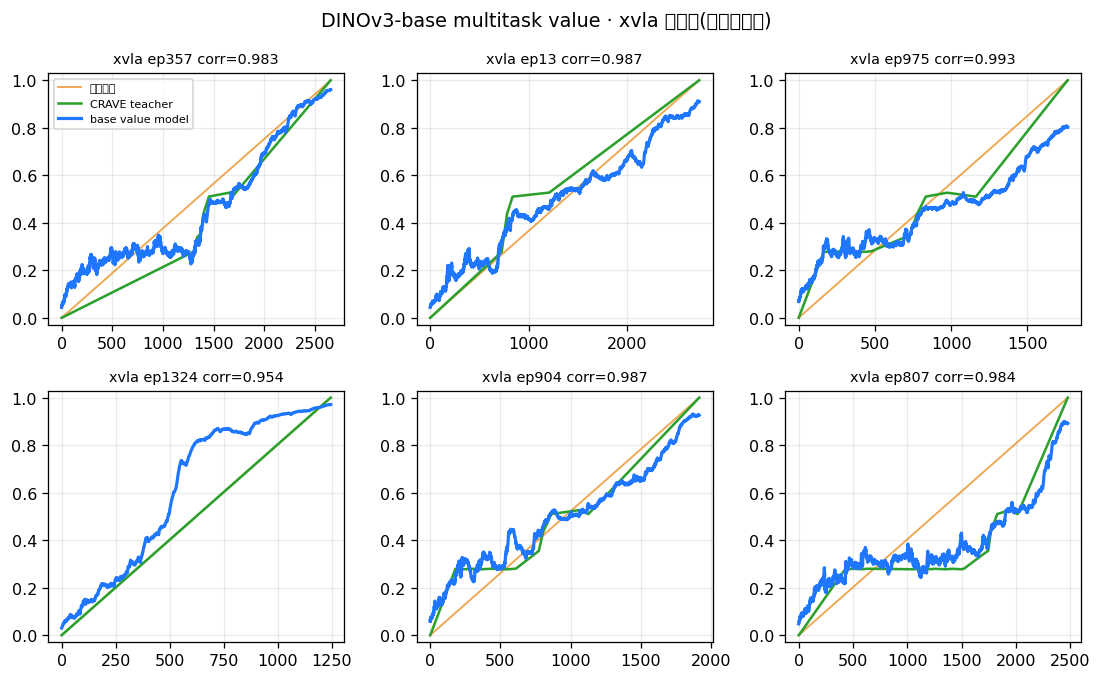
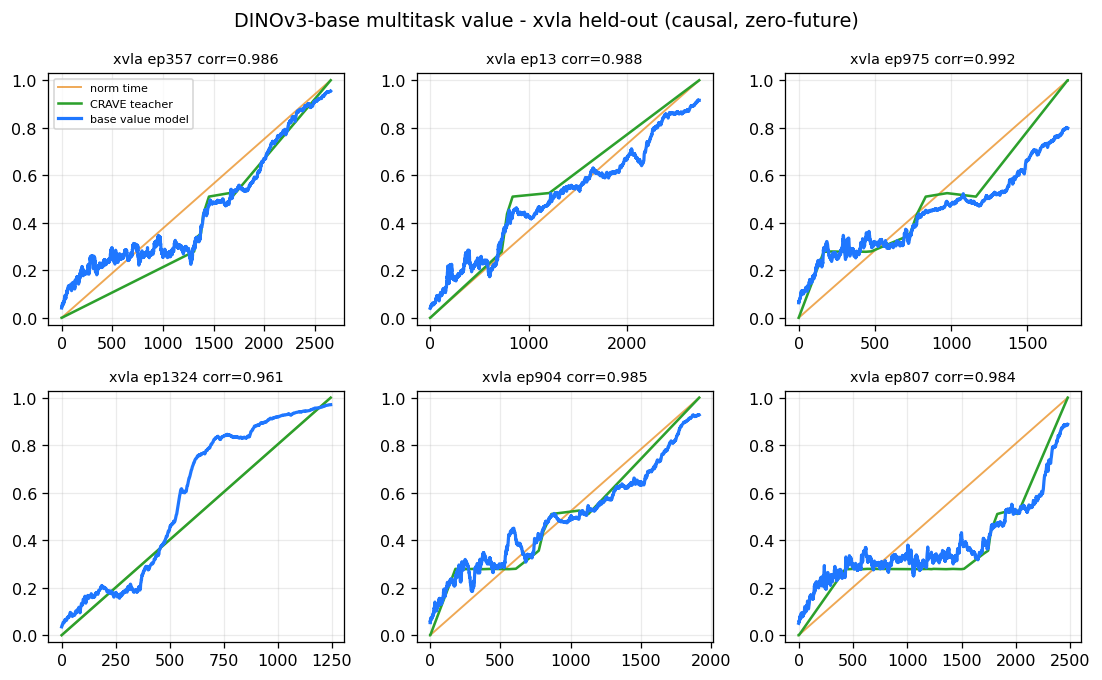
decoder: base pooled decoder(单帧自重建0.87达标, 簇心软→检索) + 图统一英文
- 训 DINOv3-base pooled decoder(coffee/xvla): 单帧自重建 re-encode cos 0.873(coffee)
  远超合成封顶0.47(刚性场景好重建); 簇心=平均态→臂糊团, milestone 可视化仍用检索
- 图统一英文(gf3 matplotlib 无中文字体→乱码): 重渲 base_coffee/xvla/aloha9(+warmup)
  + centroid_decode_coffee/xvla + decoder_selfrecon
- doc decoder_benchmark §6; 脚本 train_decoder_base/decode_milestone_centroids

diff --git a/lmvla/crave/experiments/decode_milestone_centroids.py b/lmvla/crave/experiments/decode_milestone_centroids.py
@@ -1,0 +1,68 @@
+import json, numpy as np, cv2, av, h5py, torch, torch.nn as nn
+from pathlib import Path
+from sklearn.mixture import BayesianGaussianMixture
+import matplotlib; matplotlib.use('Agg'); import matplotlib.pyplot as plt
+REPO=Path('/vePFS-North-E/vis_robot/workspace/deepdive_kai0'); DEV='cuda:0'; rng=np.random.RandomState(0); RES=128
+def l2(x): return x/(np.linalg.norm(x,axis=-1,keepdims=True)+1e-9)
+class Dec(nn.Module):
+    def __init__(s,d=768):
+        super().__init__(); s.fc=nn.Linear(d,512*4*4)
+        def blk(i,o): return nn.Sequential(nn.Upsample(scale_factor=2),nn.Conv2d(i,o,3,1,1),nn.GroupNorm(8,o),nn.SiLU())
+        s.up=nn.Sequential(blk(512,256),blk(256,128),blk(128,64),blk(64,32),blk(32,32)); s.out=nn.Conv2d(32,3,3,1,1)
+    def forward(s,x): return torch.sigmoid(s.out(s.up(s.fc(x).view(-1,512,4,4))))
+def milestones(feat,E,T,NC):
+    bg=BayesianGaussianMixture(n_components=40,covariance_type='diag',weight_concentration_prior=1e-2,max_iter=120,random_state=0).fit(feat[rng.choice(len(feat),min(40000,len(feat)),replace=False)]); labs=bg.predict(feat); ms=[]
+    for k in range(40):
+        m=labs==k
+        if m.sum()>=20 and len(set(E[m].tolist()))/NC>=0.5: ms.append((float(np.median(T[m])), l2(feat[m].mean(0)[None])[0]))
+    ms.sort()
+    return [ms[i] for i in np.linspace(0,len(ms)-1,min(8,len(ms))).astype(int)] if ms else []
+# ===== COFFEE =====
+z=np.load(REPO/'lmvla/crave/data/coffee_dinov3base/index.npz'); s=np.load(REPO/'lmvla/crave/data/coffee_dinov3base/shard_0.npz')
+E=z['E'];FR=z['FR']; feat=l2(s['feat'].astype(np.float32)); N=len(feat); eps=sorted(np.unique(E).tolist()); NC=len(eps)
+T=np.zeros(N,np.float32)
+for e in eps: m=np.where(E==e)[0]; o=m[np.argsort(FR[m])]; T[o]=np.linspace(0,1,len(o))
+imgs=np.zeros((N,RES,RES,3),np.uint8); cont=av.open(str(REPO/'temp/aloha_static_coffee/videos/observation.images.cam_high/chunk-000/file-000.mp4')); i=0
+for fr in cont.decode(video=0):
+    if i>=N: break
+    imgs[i]=cv2.resize(fr.to_ndarray(format='rgb24'),(RES,RES)); i+=1
+cont.close()
+net=Dec().to(DEV); net.load_state_dict(torch.load(REPO/'lmvla/crave/data/base_decoder_coffee.pt')); net.eval()
+ms=milestones(feat,E,T,NC); fig,ax=plt.subplots(2,len(ms),figsize=(2.3*len(ms),5))
+for j,(pv,cen) in enumerate(ms):
+    with torch.no_grad(): dec=net(torch.tensor(cen[None],device=DEV))[0].permute(1,2,0).cpu().numpy()
+    i=int(np.linalg.norm(feat-cen,axis=1).argmin())
+    ax[0,j].imshow(np.clip(dec,0,1)); ax[0,j].axis('off'); ax[0,j].set_title(('decoded centroid  ' if j==0 else '')+f'p={pv:.2f}',fontsize=9)
+    ax[1,j].imshow(imgs[i]); ax[1,j].axis('off'); ax[1,j].set_title('retrieved nearest real frame' if j==0 else '',fontsize=9)
+fig.suptitle('coffee milestone centroids: top=decoder synthesis / bottom=retrieval (nearest real frame), by progress p',fontsize=12)
+fig.tight_layout(); fig.savefig(REPO/'temp/centroid_decode_coffee.png',dpi=105,bbox_inches='tight'); print('SAVED coffee',flush=True)
+# self-recon coffee (EN)
+ev=np.arange(N)[int(N*.9):][:10]; from crave.encoders import load_encoder; enc=load_encoder('dinov3-base',device='cuda')
+fig,ax=plt.subplots(2,10,figsize=(22,4.6)); coss=[]
+for j,i in enumerate(ev):
+    with torch.no_grad(): rec=net(torch.tensor(feat[i][None],device=DEV))[0].permute(1,2,0).cpu().numpy()
+    ax[0,j].imshow(imgs[i].astype(np.float32)/255.); ax[0,j].axis('off'); ax[0,j].set_title('original' if j==0 else '',fontsize=9)
+    ax[1,j].imshow(np.clip(rec,0,1)); ax[1,j].axis('off'); ax[1,j].set_title('decoded' if j==0 else '',fontsize=9)
+    re=np.asarray(enc.encode_pooled(cv2.resize((np.clip(rec,0,1)*255).astype(np.uint8),(224,224))[None]))[0]; coss.append(float(l2(re[None])[0]@feat[i]))
+fig.suptitle(f'DINOv3-base pooled decoder self-reconstruction (coffee) · re-encode cos={np.mean(coss):.3f} (synthesis benchmark cap ~0.47)',fontsize=12)
+fig.tight_layout(); fig.savefig(REPO/'temp/decoder_selfrecon_base.png',dpi=105,bbox_inches='tight'); print('SAVED selfrecon',flush=True)
+del imgs
+# ===== XVLA =====
+XROOT=REPO/'xvla/data/xvla_soft_fold'; WORK=REPO/'temp/xvla_extract_base'; gidmap={}
+for g in range(8):
+    for bn,lep,gid in json.load(open(WORK/f'chunk_{g}.json')): gidmap[int(gid)]=(bn,int(lep))
+z=np.load(REPO/'lmvla/crave/data/xvla_dinov3base_full/index.npz'); s=np.load(REPO/'lmvla/crave/data/xvla_dinov3base_full/shard_0.npz')
+E=z['E'];FR=z['FR']; feat=l2(s['feat'].astype(np.float32)); N=len(feat); eps=sorted(np.unique(E).tolist()); NC=len(eps)
+T=np.zeros(N,np.float32)
+for e in eps: m=np.where(E==e)[0]; o=m[np.argsort(FR[m])]; T[o]=np.linspace(0,1,len(o))
+net=Dec().to(DEV); net.load_state_dict(torch.load(REPO/'lmvla/crave/data/base_decoder_xvla.pt')); net.eval()
+ms=milestones(feat,E,T,NC); fig,ax=plt.subplots(2,len(ms),figsize=(2.3*len(ms),5))
+for j,(pv,cen) in enumerate(ms):
+    with torch.no_grad(): dec=net(torch.tensor(cen[None],device=DEV))[0].permute(1,2,0).cpu().numpy()
+    i=int(np.linalg.norm(feat-cen,axis=1).argmin()); gid=int(E[i]); fr=int(FR[i]); bn,lep=gidmap[gid]
+    f=h5py.File(XROOT/bn/f'episode_{lep}.hdf5','r'); raw=f['observations/images/cam_high'][fr]; f.close()
+    rimg=cv2.resize(np.ascontiguousarray(cv2.imdecode(np.frombuffer(raw,np.uint8),cv2.IMREAD_COLOR)[:,:,::-1]),(RES,RES))
+    ax[0,j].imshow(np.clip(dec,0,1)); ax[0,j].axis('off'); ax[0,j].set_title(('decoded centroid  ' if j==0 else '')+f'p={pv:.2f}',fontsize=9)
+    ax[1,j].imshow(rimg); ax[1,j].axis('off'); ax[1,j].set_title('retrieved nearest real frame' if j==0 else '',fontsize=9)
+fig.suptitle('xvla milestone centroids: top=decoder synthesis / bottom=retrieval (nearest real frame), by progress p',fontsize=12)
+fig.tight_layout(); fig.savefig(REPO/'temp/centroid_decode_xvla.png',dpi=105,bbox_inches='tight'); print('SAVED xvla',flush=True)

diff --git a/lmvla/crave/experiments/train_decoder_base.py b/lmvla/crave/experiments/train_decoder_base.py
@@ -1,0 +1,47 @@
+import sys, numpy as np, av, cv2, time, torch, torch.nn as nn
+from pathlib import Path
+from crave.render import setup_mpl
+plt=setup_mpl()
+REPO=Path('/vePFS-North-E/vis_robot/workspace/deepdive_kai0'); DEV='cuda:0'; rng=np.random.RandomState(0); torch.manual_seed(0)
+RES=128; DS='coffee'; BANK='coffee_dinov3base'; VID=REPO/'temp/aloha_static_coffee/videos/observation.images.cam_high/chunk-000/file-000.mp4'
+def l2(x): return x/(np.linalg.norm(x,axis=-1,keepdims=True)+1e-9)
+# 特征(pooled 768) + 顺序解码视频帧配对
+z=np.load(REPO/f'lmvla/crave/data/{BANK}/index.npz'); s=np.load(REPO/f'lmvla/crave/data/{BANK}/shard_0.npz')
+feat=s['feat'].astype(np.float32); N=len(feat); print(f'{DS} feat {feat.shape}',flush=True)
+t0=time.time(); imgs=np.zeros((N,RES,RES,3),np.uint8); cont=av.open(str(VID)); i=0
+for fr in cont.decode(video=0):
+    if i>=N: break
+    imgs[i]=cv2.resize(fr.to_ndarray(format='rgb24'),(RES,RES)); i+=1
+cont.close(); print(f'decoded {i} frames ({time.time()-t0:.0f}s)',flush=True)
+feat=l2(feat); idx=np.arange(N); rng.shuffle(idx); tr=idx[:int(N*.9)]; ev=idx[int(N*.9):]
+class Dec(nn.Module):
+    def __init__(s,d=768):
+        super().__init__(); s.fc=nn.Linear(d,512*4*4)
+        def blk(i,o): return nn.Sequential(nn.Upsample(scale_factor=2),nn.Conv2d(i,o,3,1,1),nn.GroupNorm(8,o),nn.SiLU())
+        s.up=nn.Sequential(blk(512,256),blk(256,128),blk(128,64),blk(64,32),blk(32,32)); s.out=nn.Conv2d(32,3,3,1,1)
+    def forward(s,x): h=s.fc(x).view(-1,512,4,4); return torch.sigmoid(s.out(s.up(h)))
+net=Dec().to(DEV); opt=torch.optim.AdamW(net.parameters(),2e-4,weight_decay=1e-5)
+print(f'decoder 参数 {sum(p.numel() for p in net.parameters())/1e6:.1f}M',flush=True)
+Ft=torch.tensor(feat[tr],device=DEV); It=torch.tensor(imgs[tr].astype(np.float32)/255.,device=DEV).permute(0,3,1,2)
+for ep in range(40):
+    perm=torch.randperm(len(tr),device=DEV); tl=0
+    for k in range(0,len(tr),128):
+        b=perm[k:k+128]; pr=net(Ft[b]); loss=(pr-It[b]).abs().mean(); opt.zero_grad(); loss.backward(); opt.step(); tl+=loss.item()
+    if (ep+1)%10==0: print(f'ep{ep+1} L1={tl/(len(tr)//128):.4f}',flush=True)
+# 自重建 + 再编码cos(需encoder)
+net.eval()
+from crave.encoders import load_encoder; enc=load_encoder('dinov3-base',device='cuda')
+sel=ev[:10]; fig,ax=plt.subplots(2,10,figsize=(22,4.6))
+coss=[]; l1s=[]
+for j,i in enumerate(sel):
+    with torch.no_grad(): rec=net(torch.tensor(feat[i][None],device=DEV))[0].permute(1,2,0).cpu().numpy()
+    orig=imgs[i].astype(np.float32)/255.
+    ax[0,j].imshow(orig); ax[0,j].axis('off'); ax[0,j].set_title('原图' if j==0 else '',fontsize=9)
+    ax[1,j].imshow(np.clip(rec,0,1)); ax[1,j].axis('off'); ax[1,j].set_title('解码' if j==0 else '',fontsize=9)
+    l1s.append(np.abs(orig-rec).mean())
+    re=np.asarray(enc.encode_pooled(cv2.resize((np.clip(rec,0,1)*255).astype(np.uint8),(224,224))[None]))[0]
+    coss.append(float(l2(re[None])[0]@feat[i]))
+fig.suptitle(f'DINOv3-base pooled decoder 自重建 · coffee · 再编码cos={np.mean(coss):.3f} L1={np.mean(l1s):.3f}(基准: 合成封顶cos~0.47)',fontsize=12)
+fig.tight_layout(); fig.savefig(REPO/'temp/decoder_selfrecon_base.png',dpi=105,bbox_inches='tight')
+torch.save(net.state_dict(),REPO/'lmvla/crave/data/base_decoder_coffee.pt')
+print(f'SAVED selfrecon · cos={np.mean(coss):.3f} L1={np.mean(l1s):.3f}',flush=True)

diff --git a/lmvla/crave/experiments/train_multitask_12task.py b/lmvla/crave/experiments/train_multitask_12task.py
@@ -83,29 +83,29 @@ def pred(f, warm=20):
     fw=np.concatenate([f[:1].repeat(warm,0),f])
     return net(torch.tensor(fw[None],device=DEV),torch.tensor([len(fw)]))[0].cpu().numpy()[warm:]
 # per-task corr 全表
-print("=== 12任务 per-dataset 留出 corr ===",flush=True)
+print("=== 12-task per-dataset held-out corr ===",flush=True)
 allcorr={}
 for n in DATA:
-    c=[cc(pred(f),v) for f,v,t,tg,e in EV[n]]; allcorr[n]=np.nanmean(c); print(f"  {n}: {allcorr[n]:.3f} (M按ep)",flush=True)
-print(f"  >>> 12任务 mean={np.mean(list(allcorr.values())):.3f}",flush=True)
+    c=[cc(pred(f),v) for f,v,t,tg,e in EV[n]]; allcorr[n]=np.nanmean(c); print(f"  {n}: {allcorr[n]:.3f} ",flush=True)
+print(f"  >>> 12-task mean={np.mean(list(allcorr.values())):.3f}",flush=True)
 # 渲 aloha 9 任务(coffee+8) 各1留出ep
 alods=['coffee','cups_open','candy','screw_driver','vinh_cup','ziploc_slide','coffee_new','pro_pencil','vinh_cup_left']
 fig,axes=plt.subplots(3,3,figsize=(14,9)); axes=axes.flatten()
 for ax,dn in zip(axes,alods):
     f,v,t,tg,e=EV[dn][0]; p=pred(f)
-    ax.plot(t,color='#e8830c',lw=1.1,alpha=.6,label='时间'); ax.plot(v,color='#2ca02c',lw=1.5,label='teacher'); ax.plot(p,color='#1f77ff',lw=1.9,label='value model')
+    ax.plot(t,color='#e8830c',lw=1.1,alpha=.6,label='time'); ax.plot(v,color='#2ca02c',lw=1.5,label='teacher'); ax.plot(p,color='#1f77ff',lw=1.9,label='value model')
     ax.set_title(f'{dn} ep{e} corr={cc(p,v):.3f}',fontsize=9); ax.set_ylim(-.03,1.03); ax.grid(alpha=.25)
 axes[0].legend(fontsize=7)
-fig.suptitle('DINOv3-base 12任务 multitask value · 9个ALOHA任务留出集',fontsize=12); fig.tight_layout()
+fig.suptitle('DINOv3-base 12-task multitask value - 9 ALOHA tasks (held-out)',fontsize=12); fig.tight_layout()
 fig.savefig(REPO/"temp/base_aloha9.png",dpi=110,bbox_inches='tight'); print('SAVED base_aloha9.png',flush=True)
 for dsname,ncol in [("xvla",6),("coffee",8)]:
     ev=EV[dsname][:ncol]; nr=2; nc=(len(ev)+1)//2
     fig,axes=plt.subplots(nr,nc,figsize=(3.2*nc,6)); axes=np.atleast_1d(axes).flatten()
     for ax,(f,v,t,tg,e) in zip(axes,ev):
-        p=pred(f); ax.plot(t,color='#e8830c',lw=1.2,alpha=.7,label='归一时间'); ax.plot(v,color='#2ca02c',lw=1.6,label='CRAVE teacher'); ax.plot(p,color='#1f77ff',lw=2,label='base value model')
+        p=pred(f); ax.plot(t,color='#e8830c',lw=1.2,alpha=.7,label='norm time'); ax.plot(v,color='#2ca02c',lw=1.6,label='CRAVE teacher'); ax.plot(p,color='#1f77ff',lw=2,label='base value model')
         ax.set_title(f'{dsname} ep{e} corr={cc(p,v):.3f}',fontsize=9); ax.set_ylim(-.03,1.03); ax.grid(alpha=.25)
     axes[0].legend(fontsize=7)
     for ax in axes[len(ev):]: ax.axis('off')
-    fig.suptitle(f'DINOv3-base multitask value · {dsname} 留出集(零未来因果)',fontsize=12); fig.tight_layout()
-    outp=REPO/f'lmvla/crave/docs/visualization/online_value/base_{dsname}.png'; fig.savefig(outp,dpi=115,bbox_inches='tight'); print('SAVED',outp.name,flush=True)
+    fig.suptitle(f'DINOv3-base multitask value - {dsname} held-out (causal, zero-future)',fontsize=12); fig.tight_layout()
+    outp=REPO/f'temp/base_{dsname}.png'; fig.savefig(outp,dpi=115,bbox_inches='tight'); print('SAVED',outp.name,flush=True)
 print('DONE',flush=True)

diff --git a/lmvla/crave/docs/decoder_benchmark.md b/lmvla/crave/docs/decoder_benchmark.md
@@ -72,3 +72,17 @@ REPO=/home/tim/workspace/deepdive_kai0 PYTHONPATH=crave/src:lmwm/src:lmwm/script
 - 输入:`temp/crave_full_dinov3h`(DINOv3-H pooled 特征 + 帧)+ 三个解码器 ckpt(`lmwm/checkpoints/{dinov3h_decoder/dec.pt, dinov3h_decoder/dec_gan.pt, patch_decoder/patch_dec.pt}`)
 - 输出:`crave/docs/visualization/decoder_benchmark/{decoder_benchmark.png, summary.json}`
 - 相关:[`milestone_centroid_decoding.md`](milestone_centroid_decoding.md)(方法史/规模消融)、[`lmwm/docs/decoder_blur_diagnosis_20260702.md`](../../lmwm/docs/decoder_blur_diagnosis_20260702.md)(LMWM 侧应用)、规范组件 `lmwm/src/lmwm/retrieval_decoder.py`。
+
+---
+
+## 6. DINOv3-base decoder(新, 2026-07-11)—— 单帧自重建达标, 簇心仍软 → milestone 用检索
+
+为 base pipeline 训了 pooled decoder(768D → 128×128, L1, `train_decoder_base.py`):
+
+- **单帧自重建**: coffee **re-encode cos 0.873 / L1 0.023** —— 远超 §2 合成封顶 0.47(coffee 刚性场景比 kai0 可形变布料好重建太多), 视觉上场景/臂位/物体忠实、仅高频略软。**达标。**
+  ![base self-recon](visualization/decoder_benchmark/decoder_selfrecon_base.png)
+- **簇心解码**: 簇心是几百帧的**平均态** → decode 出的臂被平均糊成团块(§2.4 "簇平均合成 ill-posed 恒软"); coffee 场景保住、xvla 布态可辨但臂糊。**检索(最近真实帧)仍更清晰、信息量大。**
+  ![coffee centroids](visualization/decoder_benchmark/centroid_decode_coffee.png)
+  ![xvla centroids](visualization/decoder_benchmark/centroid_decode_xvla.png)
+
+**结论(与 §3 一致)**: decoder 适合"单帧 latent→图"(自重建 0.87); milestone 簇心可视化用**检索**。脚本 `train_decoder_base.py` / `decode_milestone_centroids.py`; ckpt `lmvla/crave/data/base_decoder_{coffee,xvla}.pt`(gf3, gitignore)。